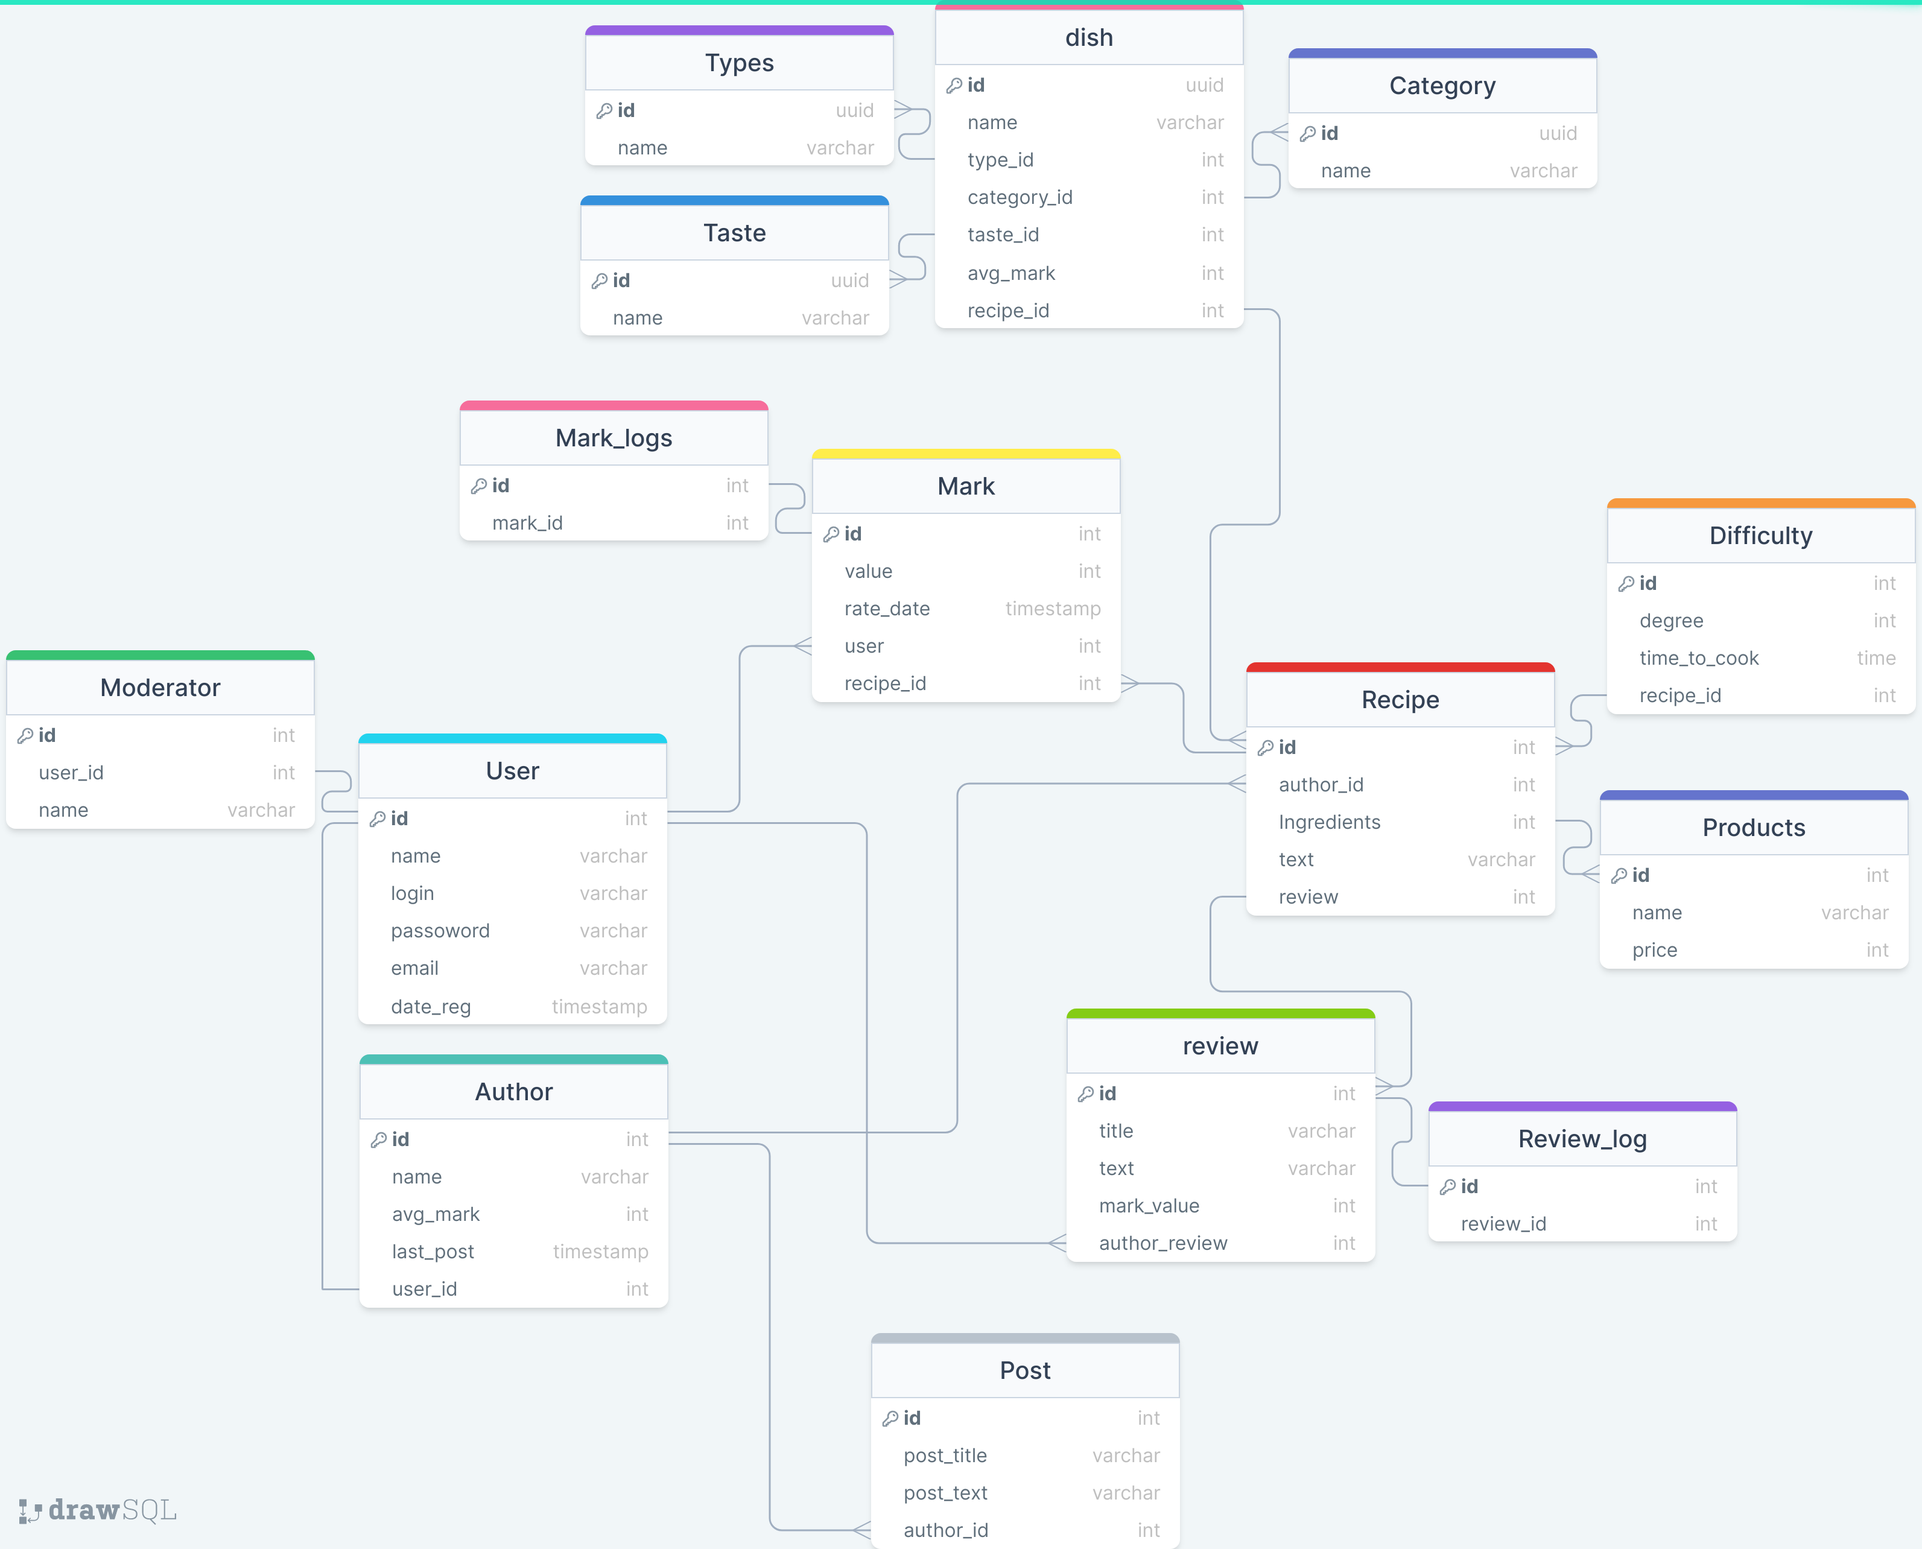
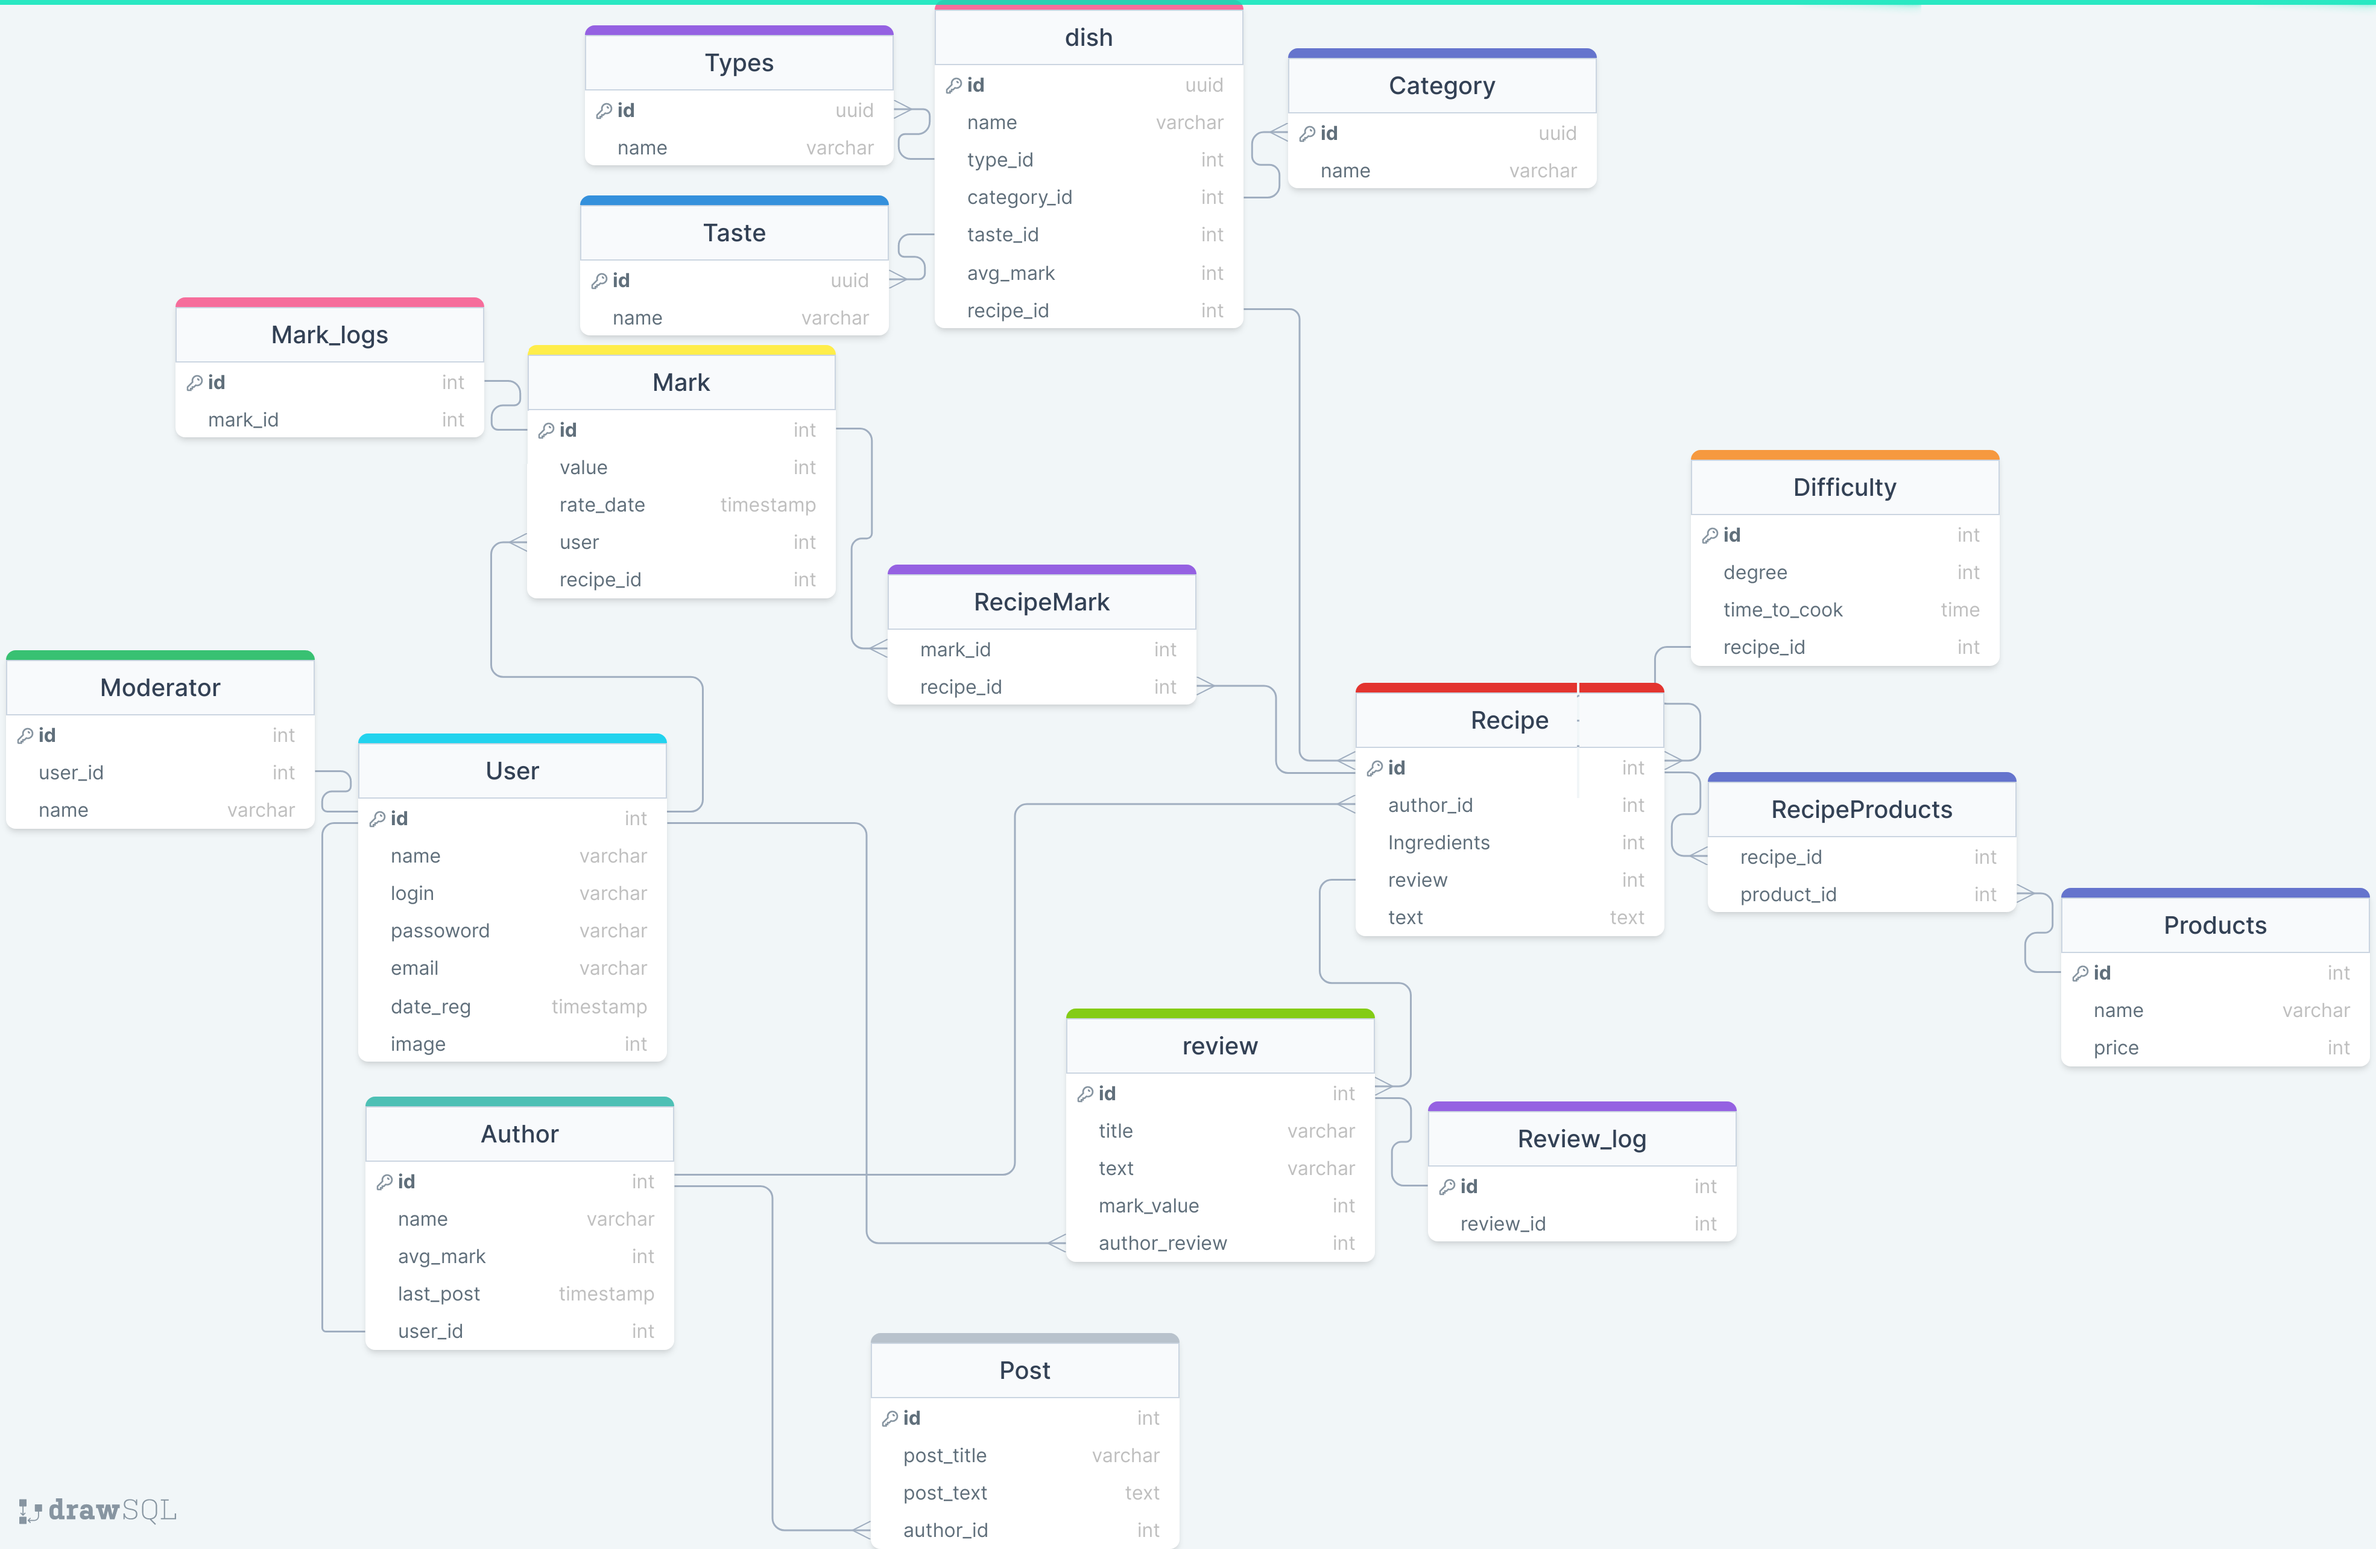
Add: nn_scheme

diff --git a/README.md b/README.md
@@ -54,8 +54,8 @@
 	- Mark_value (Оценка)
 
 
-**денорм**
-![normilize_db](https://github.com/theayo/SUBD/blob/main/doc/scheme.png)
-**норм**
+**Не нормализованная Схема БД**
+![not_normilize_db](https://github.com/theayo/SUBD/blob/main/doc/nn_scheme.png)
+**Нормализованная Схема БД**
 ![normilize_db](https://github.com/theayo/SUBD/blob/main/doc/scheme.png)
 
